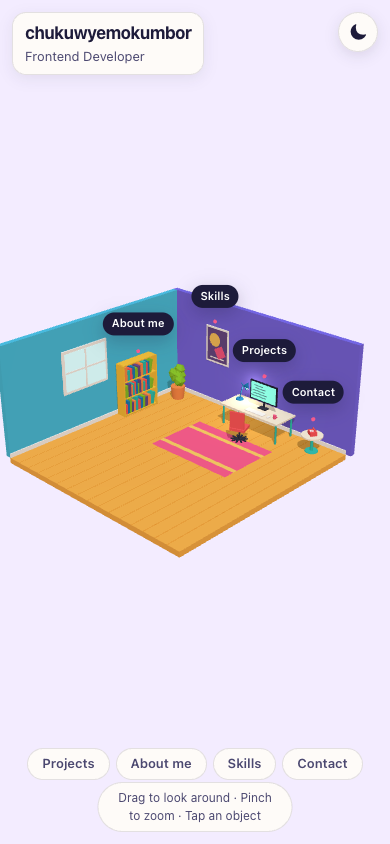
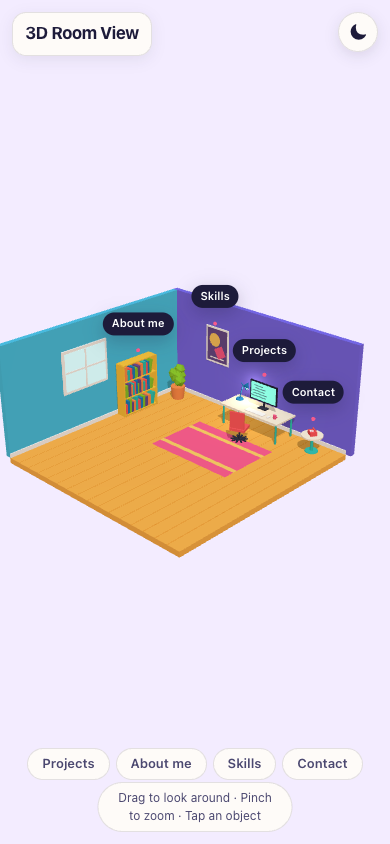
Rename the title card to 3D Room View

Changed region(s): [[0.0615, 0.0308, 0.4923, 0.0924]]

diff --git a/src/index.css b/src/index.css
@@ -82,9 +82,6 @@ button {
   font-weight: 700;
   letter-spacing: -0.02em;
 }
-.hud__role {
-  color: var(--ink-2);
-}
 
 .hint {
   position: absolute;
@@ -415,10 +412,6 @@ button {
   font-size: 32px;
   letter-spacing: -0.02em;
 }
-.fallback__role {
-  color: var(--ink-2);
-  font-size: 18px;
-}
 .fallback__note {
   margin-top: 16px;
   padding: 10px 14px;
@@ -437,7 +430,7 @@ button {
 /* ---------- Section menu ---------- */
 .section-nav {
   position: absolute;
-  top: 104px;
+  top: 82px;
   left: 16px;
 }
 .section-nav ul {
@@ -483,9 +476,6 @@ button {
   }
   .hud__name {
     font-size: 17px;
-  }
-  .hud__role {
-    font-size: 13px;
   }
   .theme-toggle {
     top: 12px;

diff --git a/src/ui/Fallback.tsx b/src/ui/Fallback.tsx
@@ -7,8 +7,7 @@ export function Fallback({ reason }: { reason: string }) {
   return (
     <main className="fallback">
       <header className="fallback__header">
-        <h1>{profile.name}</h1>
-        <p className="fallback__role">{profile.role}</p>
+        <h1>{profile.title}</h1>
         <p className="fallback__note">{reason}</p>
       </header>
       {SECTIONS.map((s) => (

diff --git a/src/data/profile.ts b/src/data/profile.ts
@@ -3,8 +3,8 @@
  * Edit this file to change your name, bio, skills, projects and contact links.
  */
 export const profile = {
-  name: 'chukuwyemokumbor',
-  role: 'Frontend Developer',
+  /** Shown in the corner card and as the heading of the 2D fallback page. */
+  title: '3D Room View',
 
   // EDIT ME: write a few sentences in your own words.
   about: [

diff --git a/src/App.tsx b/src/App.tsx
@@ -66,8 +66,7 @@ function App() {
         </Suspense>
 
         <header className="hud">
-          <h1 className="hud__name">{profile.name}</h1>
-          <p className="hud__role">{profile.role}</p>
+          <h1 className="hud__name">{profile.title}</h1>
         </header>
 
         <SectionNav ref={nav} active={active} onSelect={setActive} />

diff --git a/README.md b/README.md
@@ -58,7 +58,7 @@ Then open the URL it prints (usually http://localhost:5173).
 
 ## Make it yours
 
-All the text lives in [`src/data/profile.ts`](src/data/profile.ts): name, role, about, skills, projects and contact links. Empty contact links are hidden.
+All the text lives in [`src/data/profile.ts`](src/data/profile.ts): the title, about, skills, projects and contact links. Empty contact links are hidden.
 
 All the scene colours are in [`src/scene/palette.ts`](src/scene/palette.ts), and object positions are in [`src/scene/layout.ts`](src/scene/layout.ts).
 
